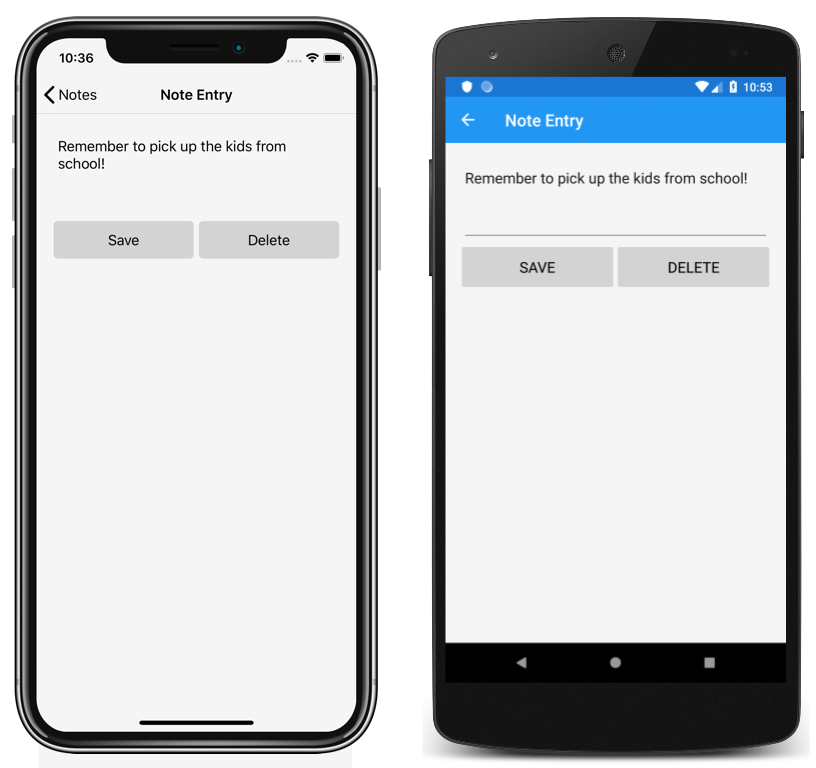
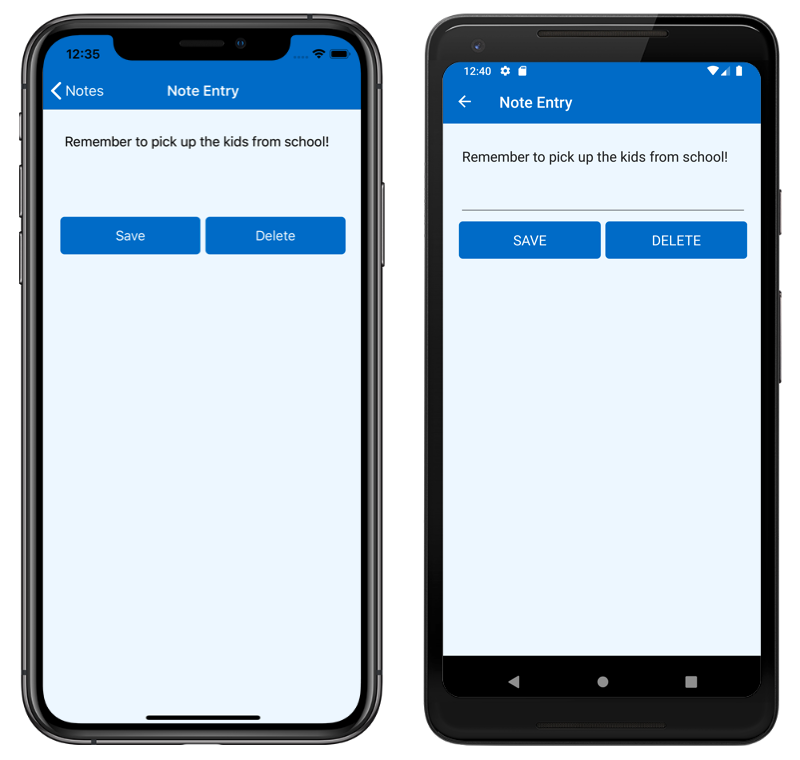
Styling update.

Changed region(s): [[0.0, 0.0, 1.0, 0.9987]]

diff --git a/GetStarted/Notes/Styled/Notes/App.xaml b/GetStarted/Notes/Styled/Notes/App.xaml
@@ -7,18 +7,16 @@
         <Thickness x:Key="PageMargin">20</Thickness>
         
         <!-- Colors -->
-        <Color x:Key="AppBackgroundColor">WhiteSmoke</Color>
-        <Color x:Key="iOSNavigationBarColor">WhiteSmoke</Color>
-        <Color x:Key="AndroidNavigationBarColor">#2196F3</Color>
-        <Color x:Key="iOSNavigationBarTextColor">Black</Color>
-        <Color x:Key="AndroidNavigationBarTextColor">White</Color>
+        <Color x:Key="AppBackgroundColor">AliceBlue</Color>
+        <Color x:Key="NavigationBarColor">#1976D2</Color>
+        <Color x:Key="NavigationBarTextColor">White</Color>
         
         <!-- Implicit styles -->
         <Style TargetType="{x:Type NavigationPage}">
             <Setter Property="BarBackgroundColor"
-                    Value="{OnPlatform iOS={StaticResource iOSNavigationBarColor}, Android={StaticResource AndroidNavigationBarColor}}" />
+                    Value="{StaticResource NavigationBarColor}" />
              <Setter Property="BarTextColor"
-                    Value="{OnPlatform iOS={StaticResource iOSNavigationBarTextColor}, Android={StaticResource AndroidNavigationBarTextColor}}" />           
+                    Value="{StaticResource NavigationBarTextColor}" />           
         </Style>
         
         <Style TargetType="{x:Type ContentPage}"

diff --git a/GetStarted/Notes/Styled/Notes/NoteEntryPage.xaml b/GetStarted/Notes/Styled/Notes/NoteEntryPage.xaml
@@ -14,8 +14,8 @@
                ApplyToDerivedTypes="True" 
                CanCascade="True">
             <Setter Property="FontSize" Value="Medium" />
-            <Setter Property="BackgroundColor" Value="LightGray" />
-            <Setter Property="TextColor" Value="Black" />
+            <Setter Property="BackgroundColor" Value="#1976D2" />
+            <Setter Property="TextColor" Value="White" />
             <Setter Property="CornerRadius" Value="5" />
         </Style>
     </ContentPage.Resources>

diff --git a/GetStarted/Notes/Styled/Notes/NotesPage.xaml b/GetStarted/Notes/Styled/Notes/NotesPage.xaml
@@ -22,9 +22,10 @@
         <ListView.ItemTemplate>
             <DataTemplate>
                 <TextCell Text="{Binding Text}"
+                          TextColor="Black"
                           Detail="{Binding Date}" />
             </DataTemplate>
         </ListView.ItemTemplate>
     </ListView>
-    
+
 </ContentPage>
